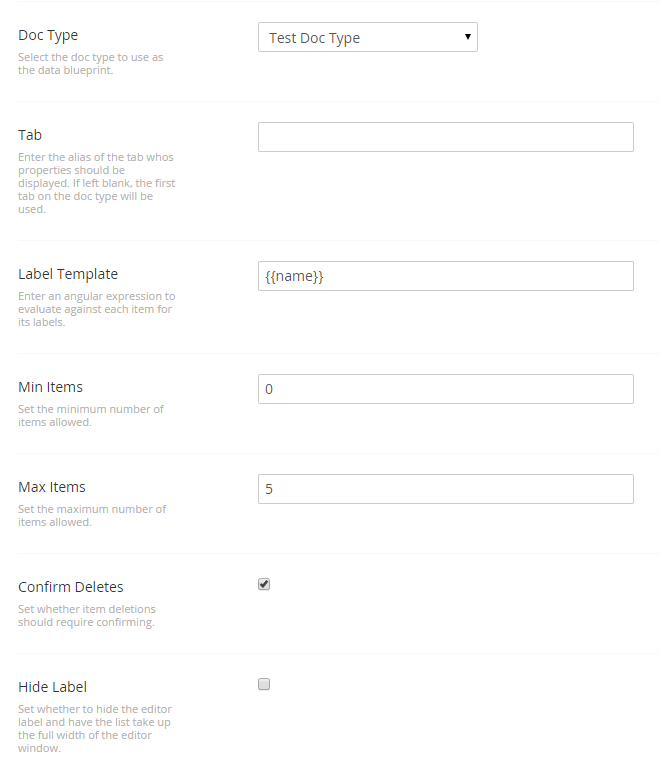
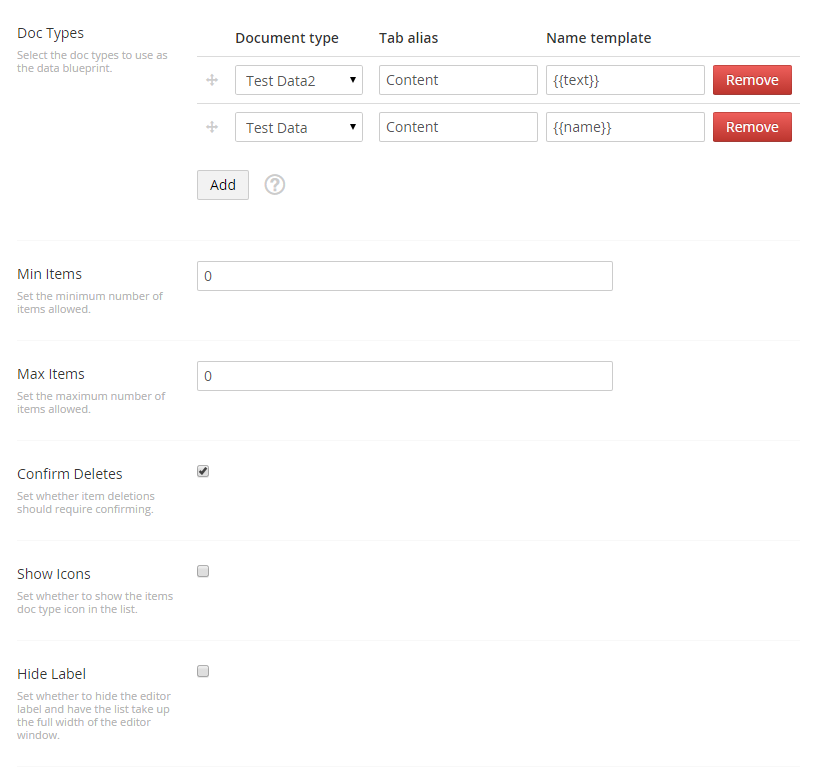
Updated docs

diff --git a/docs/developers-guide.md b/docs/developers-guide.md
@@ -46,12 +46,11 @@ The prevalue editor allows you to configure the following properties.
 
 | Member          | Type    | Description |
 |-----------------|---------|-------------|
-| Doc Type        | List    | Selects the doc type you want to use as the blue print for your list items. |
-| Tab             | String  | The alias of the tab you wish to use as your list item editor. If not set, the first non "Properties" tab will be used. |
-| Label Template  | String  | An template to use for generating list item labels. Use the syntax `{{propertyAlias}}` to use the values of your doc type properties. If not set, defaults to a standard "Item 1", "Item 2", "Item 3" template. |
+| Doc Types       | List    | Defines a list of doc types to use as data blue prints for this **Nested Content** instance. For each doc type you can provide the alias of the tab you wish to render (first tab is used by default if not set) as well as a template for generating list item labels using the syntax `{{propertyAlias}}`. |
 | Min Items       | Int     | Sets the minimum number of items that should be allowed in the list. If greater than 0, **Nested Content** will pre-populate your list with the minimum amount of allowed items and prevent deleting items below this level. Defaults to 0.
 | Max Itemd       | Int     | Sets the maximum number of items that should be allowed in the list. If greater than 0, **Nested Content** will prevent new items being added to the list above this threshold. Defaults to 0. |
 | Confirm Deletes | Boolean | Enabling this will require item deletions to require a confirmation before being deleted. Defaults to TRUE |
+| Show Icons      | Boolean | Enabling this will display the items doc type icon next to the name in the **Nested Content** list. |
 | Hide Label      | Boolean | Enabling this will hide the property editors label and expand the **Nested Content** property editor to the full with of the editor window. |
 
 Once your data type has been configured, simply set-up a property on your page doc type using your new data type and you are set to start editing.
@@ -66,7 +65,15 @@ When viewing a **Nested Content** editor for the first time, you’ll be present
 
 ![Nested Content - Add Item](assets/img/screenshot-02.png)
 
-Simply click the ![Nested Content - Plus Icon](assets/img/icon-plus.png) icon and a new item will be added to the list with the editor form displayed.
+Simply click the ![Nested Content - Plus Icon](assets/img/icon-plus.png) icon to start creating a new item in the list. 
+
+If your **Nested Content** editor is configured with multiple doc types you will be presented with a dialog window to select which doc type you would like to use.
+
+![Nested Content - Plus Icon](assets/img/screenshot-02.5.png) 
+
+Simply click the icon of the doc type you wish to use and a new items will be created in the list using that doc type.
+
+If you only have one doc type configured for your **Nested Content** editor, then clicking the ![Nested Content - Plus Icon](assets/img/icon-plus.png) will not display the dialog and instead will jump straight to inserting an entry in the editor for you ready to edit.
 
 ![Nested Content - New Item](assets/img/screenshot-03.png)
 
